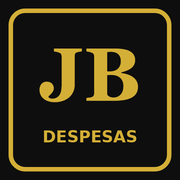
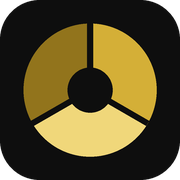
Ícones próprios do app Despesas
Claude-Session: https://claude.ai/code/session_01EKs6q6sb1wJ23AHhohV9Wd

diff --git a/sw.js b/sw.js
@@ -1,5 +1,5 @@
 // Despesas - service worker: sempre busca a versão nova na internet; usa a cópia só se estiver sem sinal
-const CACHE = 'dsp-v1';
+const CACHE = 'dsp-v2';
 const ARQS = ['./', 'index.html', 'manifest.json', 'icon-192.png', 'icon-512.png', 'icon-180.png', 'favicon-32.png'];
 
 self.addEventListener('install', e => {
